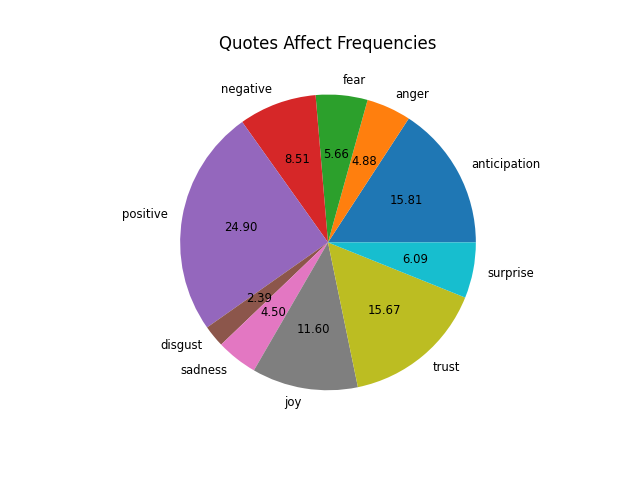
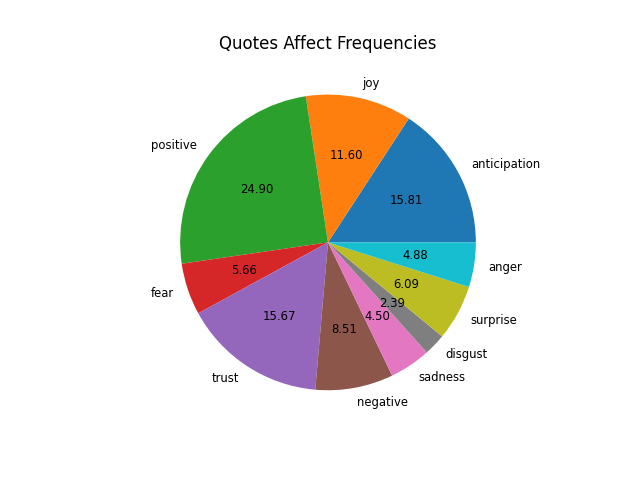
Consistent label-to-color matching across all pie charts

diff --git a/graphs.py b/graphs.py
@@ -2,9 +2,9 @@ import matplotlib.pyplot as plt
 import numpy as np
 import os
 
-article_affects = {'fear': 0.0674939280121633, 'anger': 0.06059309720816781, 'trust': 0.1541022584325241, 'surprise': 0.05005209066861874, 'positive': 0.23911783626456767, 'negative': 0.10756575649816863, 'sadness': 0.05715567533217143, 'disgust': 0.027095992878862076, 'joy': 0.09212697918142294, 'anticipation': 0.14469638552333328}
-quotes_affects = {'fear': 0.05547474577153782, 'anger': 0.04809325553772946, 'trust': 0.15820065017022955, 'surprise': 0.061133359287242825, 'positive': 0.2512255783217078, 'negative': 0.08418291059043491, 'sadness': 0.04401766518960819, 'disgust': 0.02355540457102899, 'joy': 0.11576402440989984, 'anticipation': 0.1583524061505806}
-
+# Determines the order in which data is plotted on the pie charts;
+# Ensures that the chart for each corpus uses the same colors for the same emotions
+label_order = ['anticipation', 'joy', 'positive', 'fear', 'trust', 'negative', 'sadness', 'disgust', 'surprise', 'anger']
 
 '''
 Input: text file where each line is a dictionary, where keys are emotions and values are
@@ -60,7 +60,7 @@ def pie_chart(aggregate_file, chart_name):
         print(frequencies)
         chart_labels = []
         data = []
-        for key in frequencies.keys():
+        for key in label_order:
             chart_labels.append(key)
             data.append(frequencies[key])
         fig, ax = plt.subplots()
